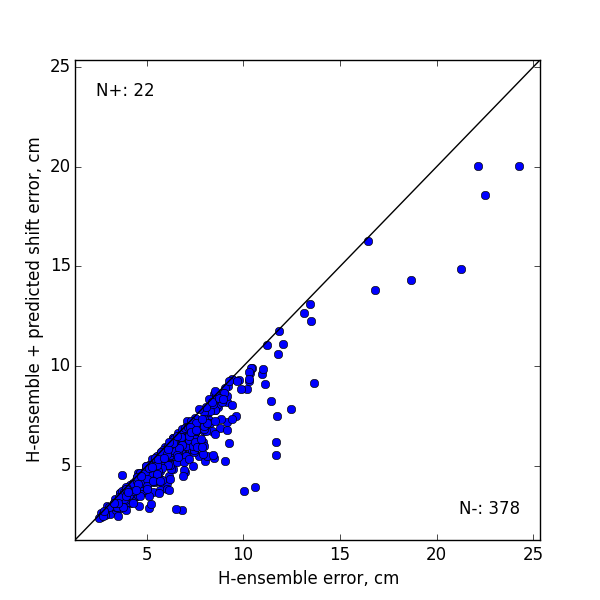
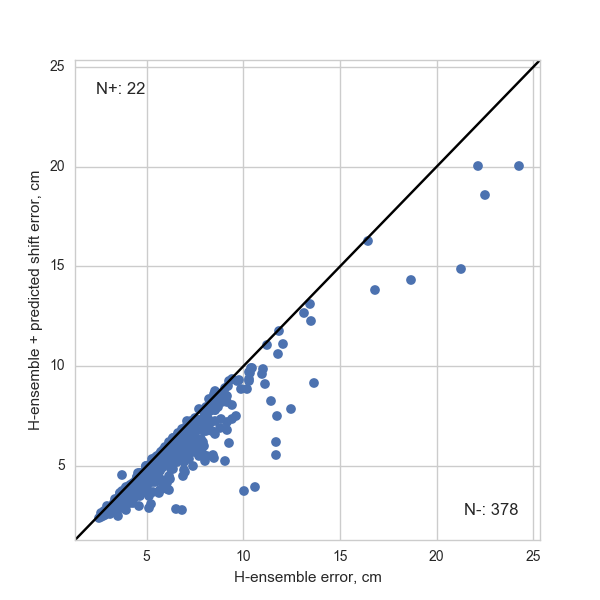
Testing seaborn

diff --git a/assimilation_current_obs.py b/assimilation_current_obs.py
@@ -7,9 +7,10 @@ import scipy.optimize as opt
 from sklearn.decomposition import PCA
 from sklearn import linear_model
 from sklearn import svm
-
+import seaborn as sns
 import peak_plot_procedures as ppp
 
+sns.set_style("whitegrid")
 
 h = np.loadtxt('data/2011/2011080100_hiromb_GI_60x434.txt') - 37.356
 s = np.loadtxt('data/2011/2011080100_swan_GI_48x434.txt')
@@ -158,8 +159,10 @@ for kk in range(K):
 ppp.plot_biplot(h_err, p_err, 'H-ensemble error, cm', 'H-ensemble + predicted shift error, cm',
                 'pics\\information_assimilation\\predicted_shift_crossvalidation.png')
 print('Cross-validation. Average improve (shifted to historical):', np.mean(h_err-p_err))
+
 plt.figure(44, figsize=(8, 6))
-plt.hist(h_err-p_err, bins=30, normed=True)
+# plt.hist(h_err-p_err, bins=30, normed=True)
+sns.distplot(h_err-p_err, norm_hist=True, bins=30)
 plt.xlabel('Error improve, cm')
 plt.savefig('pics\\information_assimilation\\predicted_shift_crossvalidation_improve.png')
 plt.close()
